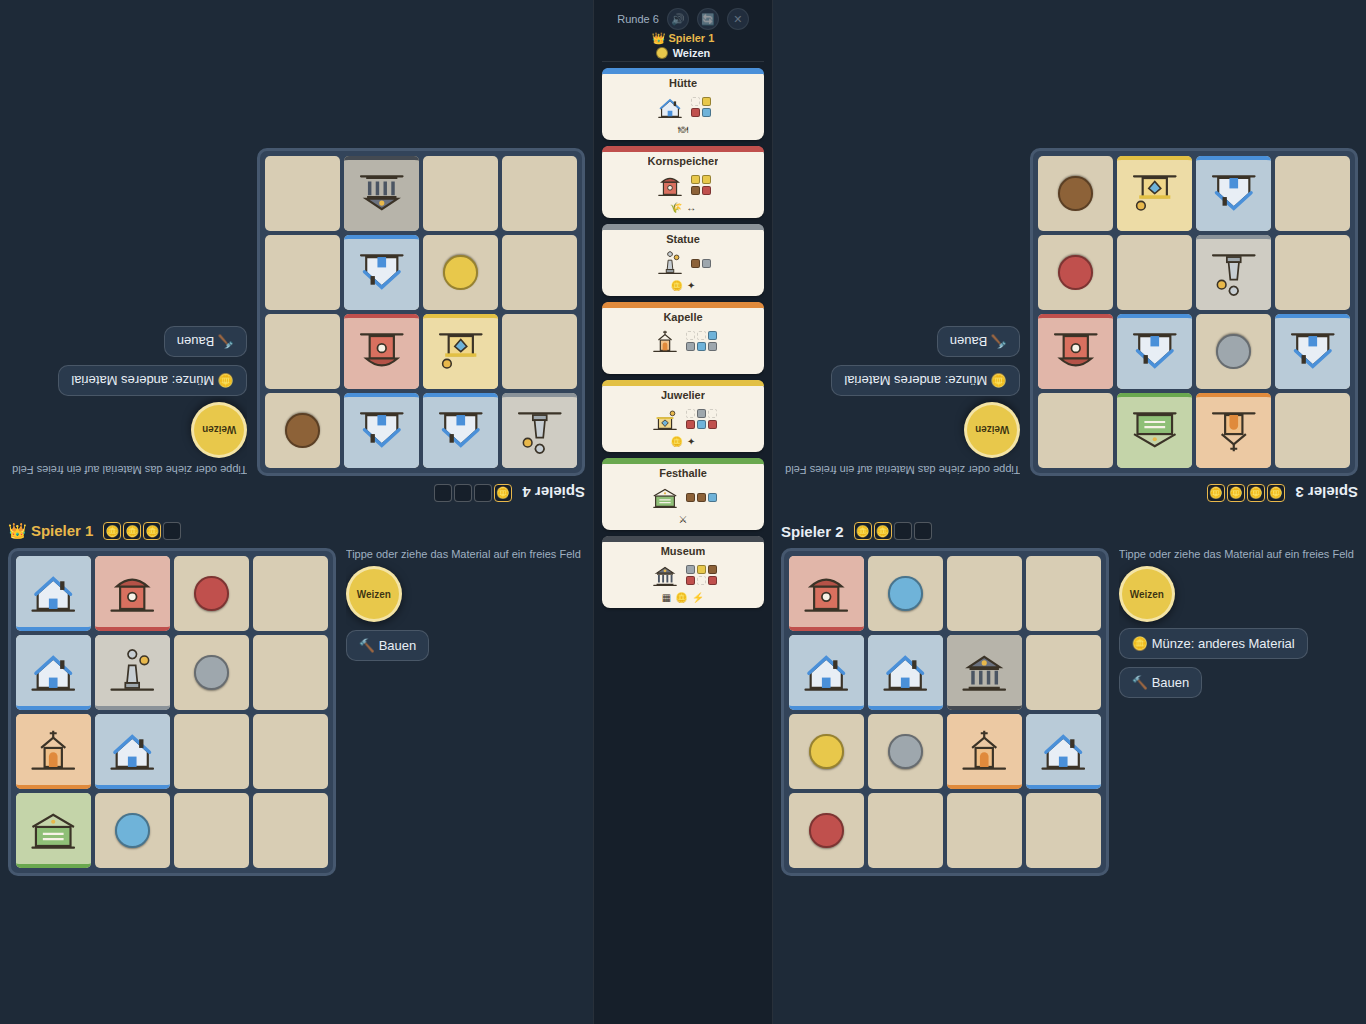
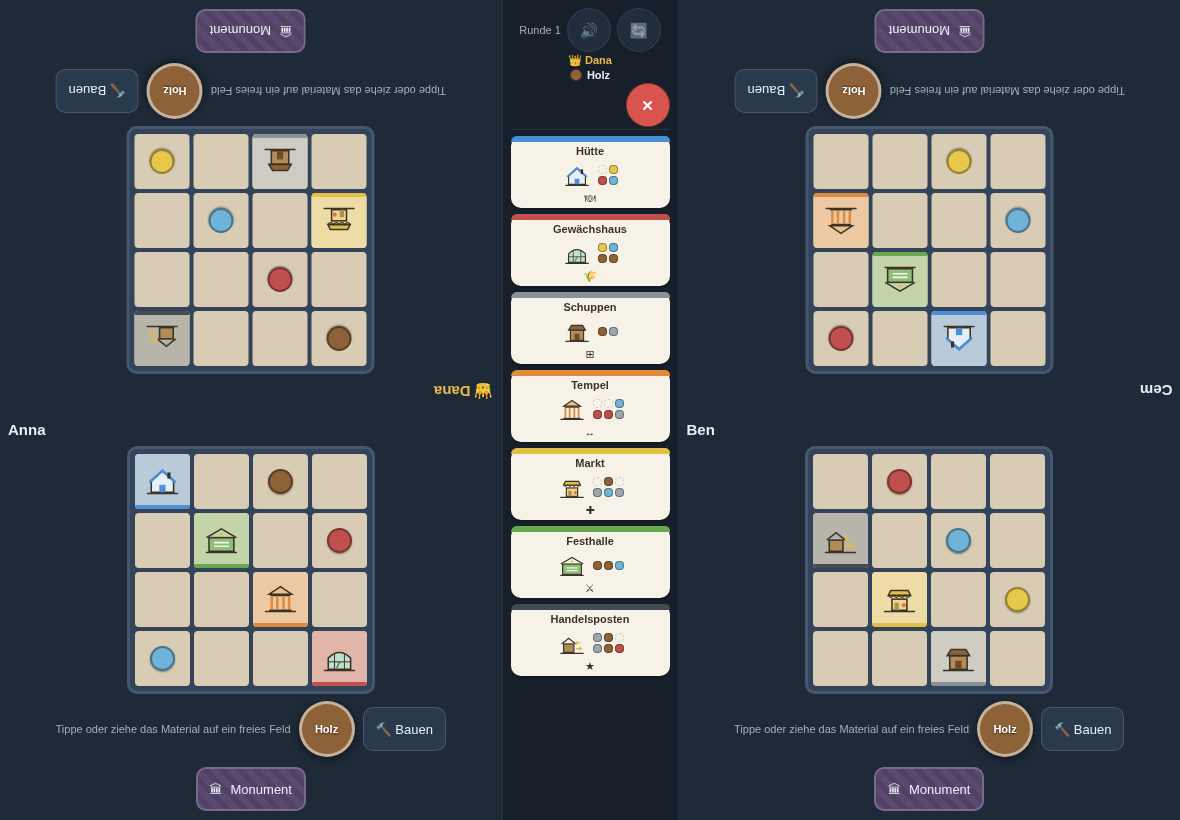
README aktualisiert, Bilder neu erzeugt, Version 3.0.0
Die Screenshots im README zeigten noch das alte Design und kannten die
Landpartie nicht. Von Hand nachgeschossene Bilder veralten aber beim
nächsten Design-Schritt wieder — also gibt es jetzt ein Rezept dafür.

scripts/shots.mjs erzeugt alle sechs Bilder reproduzierbar: Viewport,
Spielerzahl, Modus und Spielstand stehen als Code. Die Spielstände werden
gesetzt statt gespielt (fester Seed, gezielt gefüllter localStorage), damit
dieselbe Auslage erscheint; im Mehrgerätemodus geht das nicht — ein Reload
würde die Sitzung zerreißen —, dort werden drei Runden wirklich gespielt.

Neu im README: die Landpartie im Einstiegsabsatz und ein eigener Block in
der Schau mit zwei Bildern (Landpartie zu zweit am Hochkant-Tablet, Solo am
Handy). Dazu der Bilder-Generator im Entwicklungsteil und der englische
Modusname im Persistenz-Absatz.

Version 3.0.0: die Landpartie ist ein zweites Spielbrett, kein Zusatz.

Claude-Session: https://claude.ai/code/session_015L2LwiSndtwc8jTztqZDKD

diff --git a/README.md b/README.md
@@ -4,7 +4,10 @@ Digital adaptation of the board game *Tiny Towns* (base game) as a purely client
 web app (PWA) for **tablets and phones**. The classic mode puts **2–4 players around
 one tablet in landscape**: everyone plays simultaneously at the four corners of the
 device, with the game's 7 building cards in the middle — or each player joins with
-their own device.
+their own device. Beside it stands **Countryside** (🏞), our own variant on a taller
+5×6 board with a river, mountains and a lake you cannot build on, and three extra
+waterfront cards that score next to them. Solo, daily challenge, learning mode and
+several expansions are all in the box.
 
 **▶ Play: [d0m1n1kr.github.io/tiny-towns](https://d0m1n1kr.github.io/tiny-towns/)**
 
@@ -15,6 +18,17 @@ rotated toward its player, and the round's building cards sit in the middle.
 The Master Builder (👑) has named wheat — everyone places it on their own board.
 
 ![Four players around one tablet](docs/screenshots/tablet-table.png)
+
+**Countryside: a taller board with a landscape in it.** 5 wide and 6 high — the
+shape of a phone held upright. The river, the ridge and the lake are unbuildable,
+and the three waterfront cards (here Ferry Landing, Ore Mine, Watermill) only
+score next to the matching terrain. Every player gets the same map, so the towns
+stay comparable. Next to it a solo game on a phone: your own board large, the
+deck's three face-up resources below it.
+
+| Countryside for two, on a tablet held upright | Solo on a phone |
+| --- | --- |
+| <img src="docs/screenshots/countryside.png" alt="Two 5x6 boards with river, mountains and lake, ten cards in the middle" width="420"> | <img src="docs/screenshots/solo-phone.png" alt="Solo game on a phone: own board, seven cards, three face-up resources" width="200"> |
 
 **Everyone on their own device — no server.** The host opens a room; the others
 join by scanning the QR code with the normal camera app (or typing the
@@ -156,7 +170,7 @@ device (the host runs the engine and broadcasts it).
   strip, the choice is remembered per device.
 - **Persistence:** autosave to `localStorage` after every action, "Continue" after reload.
   The start screen also remembers what you picked last time — player count,
-  one-device vs. own-devices, the solo variant, Landpartie, monuments and the
+  one-device vs. own-devices, the solo variant, Countryside, monuments and the
   chosen expansions — saved on start, when the choice is real. Seating is not
   remembered (it follows the player count) and neither is the challenge date
   (that one is always today). A shared challenge link is the exception in both
@@ -184,7 +198,14 @@ npm run build      # production build (dist/)
 node scripts/smoke.mjs        # E2E: single-device mode (Chromium)
 node scripts/smoke-multi.mjs  # E2E: multi-device mode in two tabs
 node scripts/smoke-learn.mjs  # E2E: learning mode (bubbles, phone + tablet)
+node scripts/shots.mjs        # regenerates the screenshots in docs/screenshots/
 ```
+
+The screenshots above are generated, not hand-made: `scripts/shots.mjs` drives a
+real Chromium through the app and writes all six files. Every shot is a recipe
+(viewport, player count, mode, game state), so after a design change the images
+are one command away from being current again — and they show the app as it
+really renders, not as it once looked.
 
 The multi-device test runs with `?transport=channel`: the same session and host code,
 but over `BroadcastChannel` between two tabs instead of real P2P — testable without
